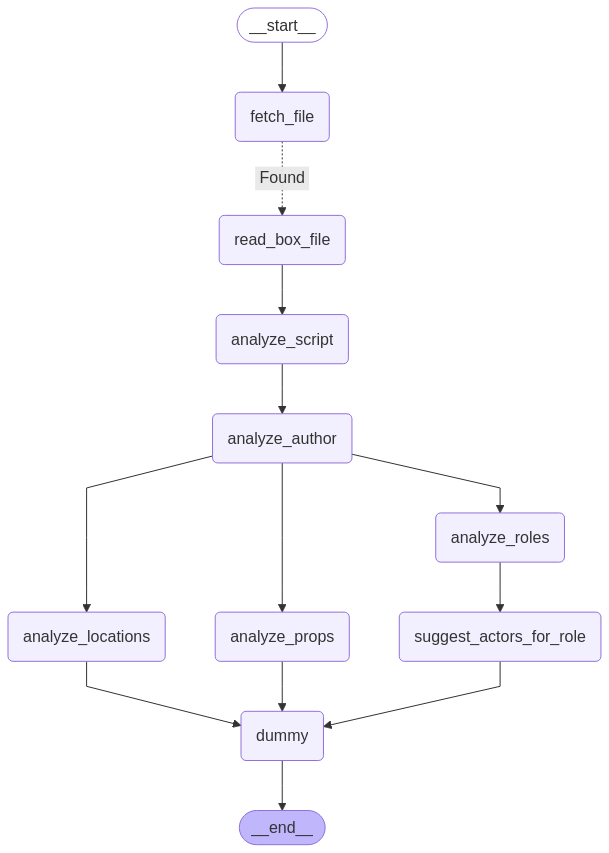
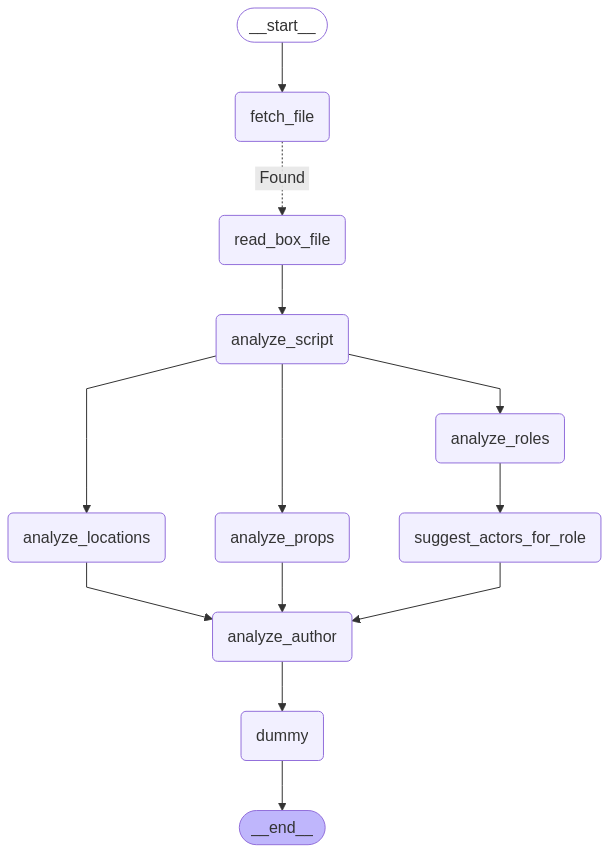
fixed duplication in aggregator

diff --git a/src/demo.py b/src/demo.py
@@ -49,13 +49,15 @@ def main() -> None:
     workflow.add_node("fetch_file", step_fetch_file)
     workflow.add_node("read_box_file", step_read_box_file)
     workflow.add_node("analyze_script", step_analyze_script)
-    workflow.add_node("analyze_author", step_analyze_author)
+    # workflow.add_node("analyze_author", step_analyze_author)
 
     workflow.add_node("analyze_locations", step_analyze_locations)
     workflow.add_node("analyze_roles", step_analyze_roles)
     workflow.add_node("analyze_props", step_analyze_props)
     # workflow.add_node("aggregator", step_dummy)
     workflow.add_node("suggest_actors_for_role", step_suggest_actors_for_role)
+
+    workflow.add_node("analyze_author", step_analyze_author)
 
     workflow.add_node("dummy", step_dummy)
 
@@ -71,15 +73,16 @@ def main() -> None:
         },
     )
     workflow.add_edge("read_box_file", "analyze_script")
-    workflow.add_edge("analyze_script", "analyze_author")
+    # workflow.add_edge("analyze_script", "analyze_author")
 
-    workflow.add_edge("analyze_author", "analyze_locations")
-    workflow.add_edge("analyze_author", "analyze_props")
-    workflow.add_edge("analyze_author", "analyze_roles")
+    workflow.add_edge("analyze_script", "analyze_locations")
+    workflow.add_edge("analyze_script", "analyze_props")
+    workflow.add_edge("analyze_script", "analyze_roles")
     workflow.add_edge("analyze_roles", "suggest_actors_for_role")
-    workflow.add_edge("suggest_actors_for_role", "dummy")
-    workflow.add_edge("analyze_locations", "dummy")
-    workflow.add_edge("analyze_props", "dummy")
+    workflow.add_edge("suggest_actors_for_role", "analyze_author")
+    workflow.add_edge("analyze_locations", "analyze_author")
+    workflow.add_edge("analyze_props", "analyze_author")
+    workflow.add_edge("analyze_author", "dummy")
     workflow.add_edge("dummy", END)
 
     # Compile

diff --git a/src/box_agent.py b/src/box_agent.py
@@ -335,6 +335,10 @@ def step_suggest_actors_for_role(state: WorkFlowState) -> WorkFlowState:
 
 def step_analyze_author(state: WorkFlowState) -> WorkFlowState:
     """Analyze the author of the script."""
+    # if state has author, we can move on
+    if state.get("author"):
+        return
+
     box_agent = get_box_agent(
         has_memory=False,
         response_format=Author,
